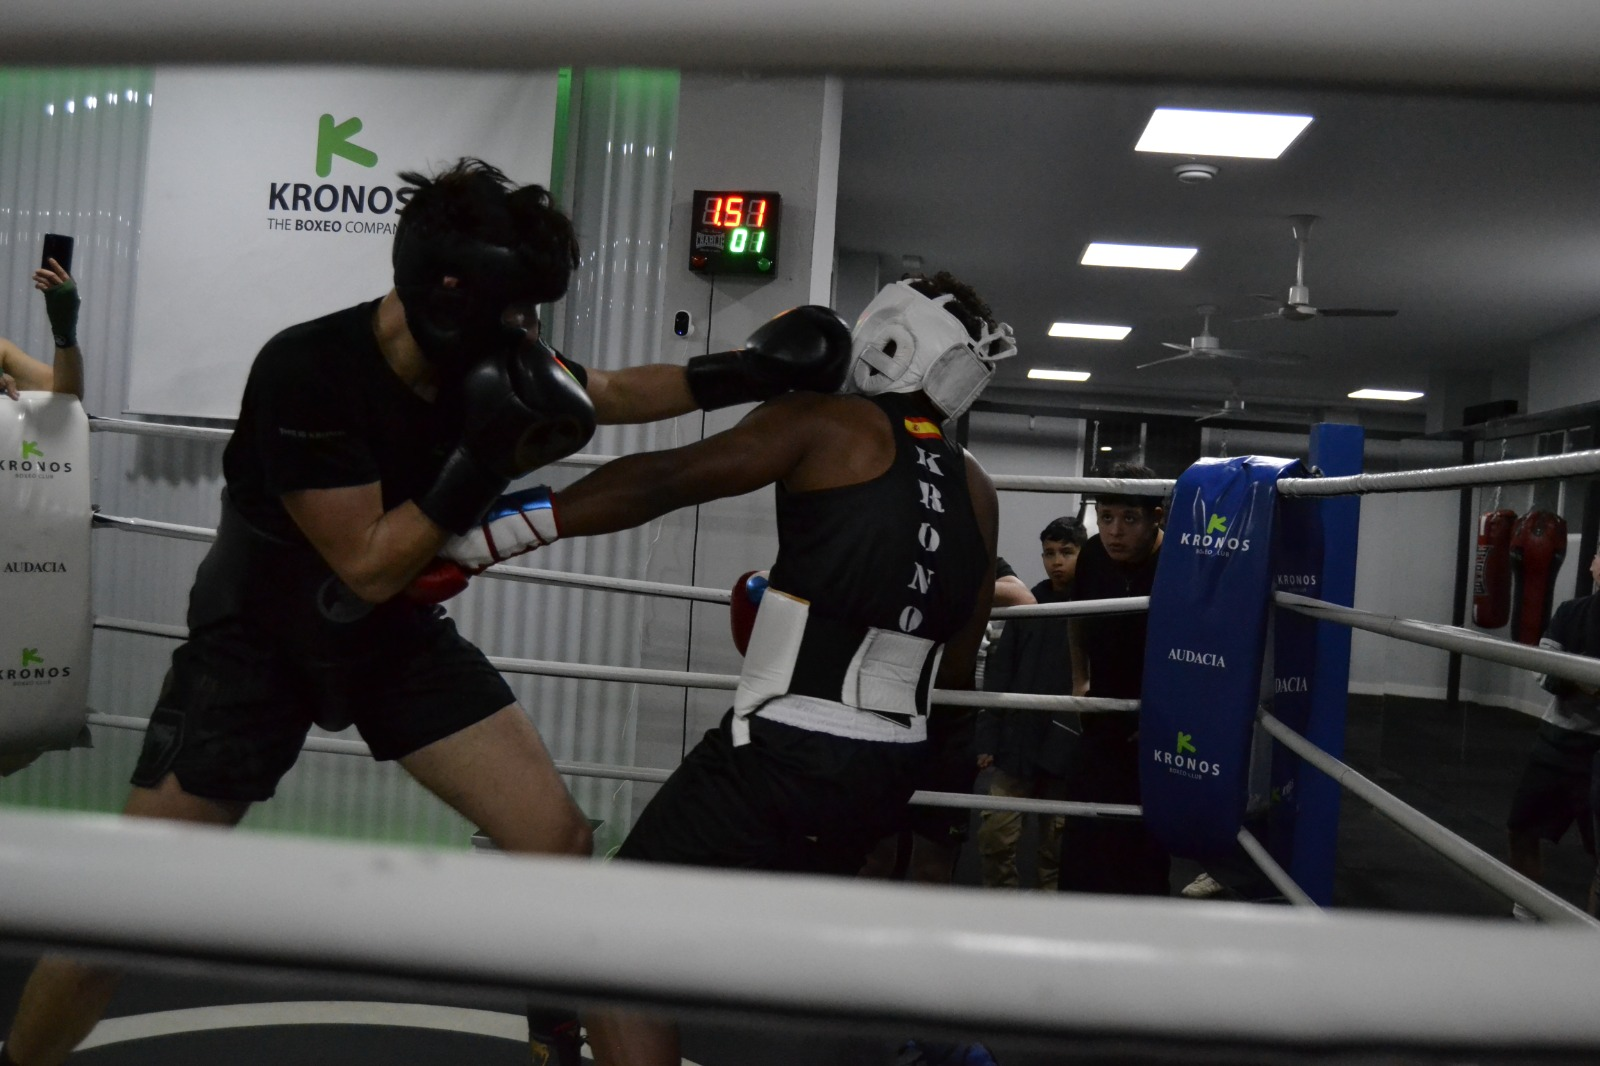
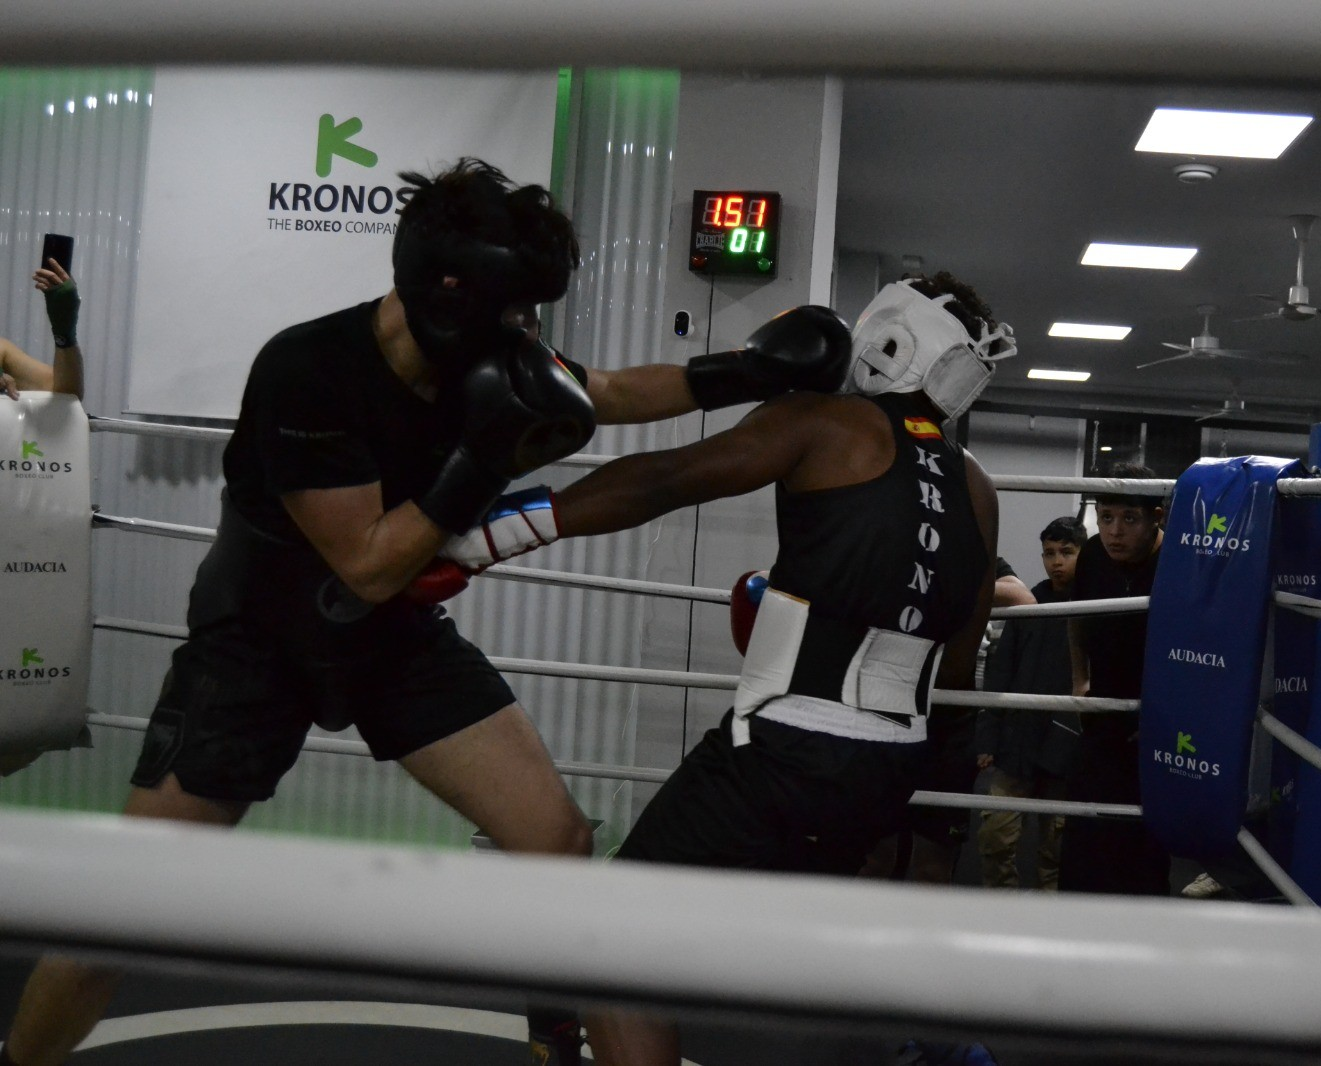
Terminado 100%

diff --git a/index.html b/index.html
@@ -14,6 +14,7 @@
       href="https://fonts.googleapis.com/css2?family=Syne:wght@400;700;800&family=Space+Mono:ital,wght@0,400;0,700;1,400&family=Outfit:wght@300;400;600;700&display=swap"
       rel="stylesheet"
     />
+    <link rel="shortcut icon" href="assets/favicon.svg" type="image/x-icon">
     <link rel="stylesheet" href="styles.css" />
   </head>
   <body>
